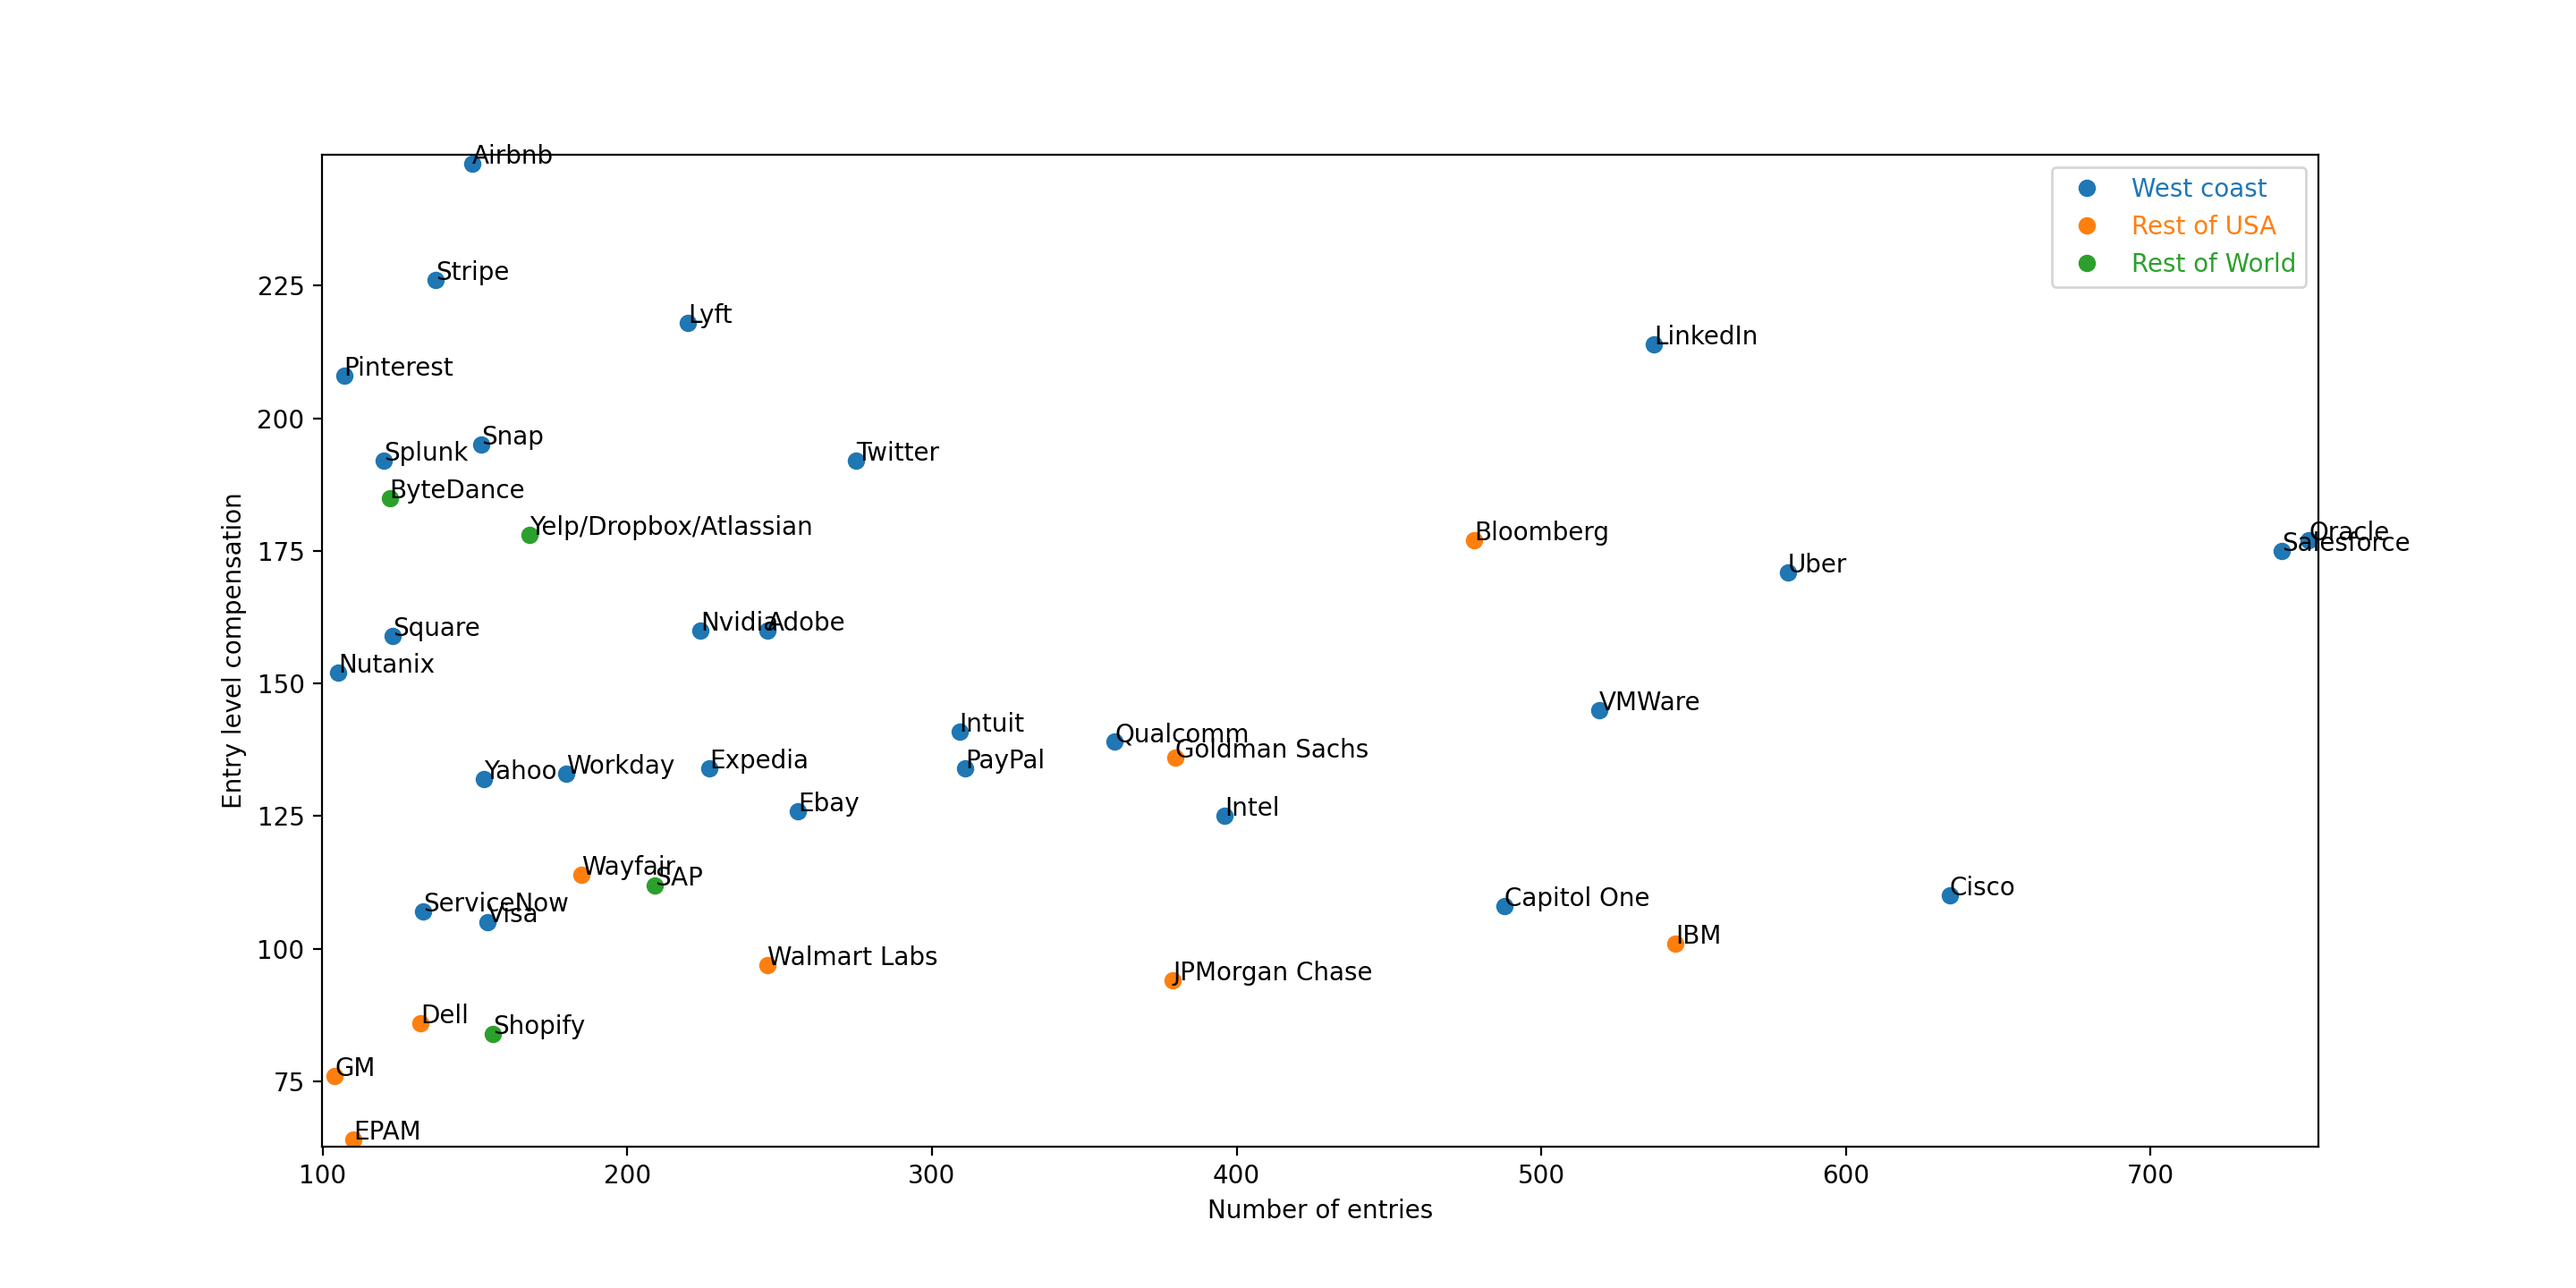
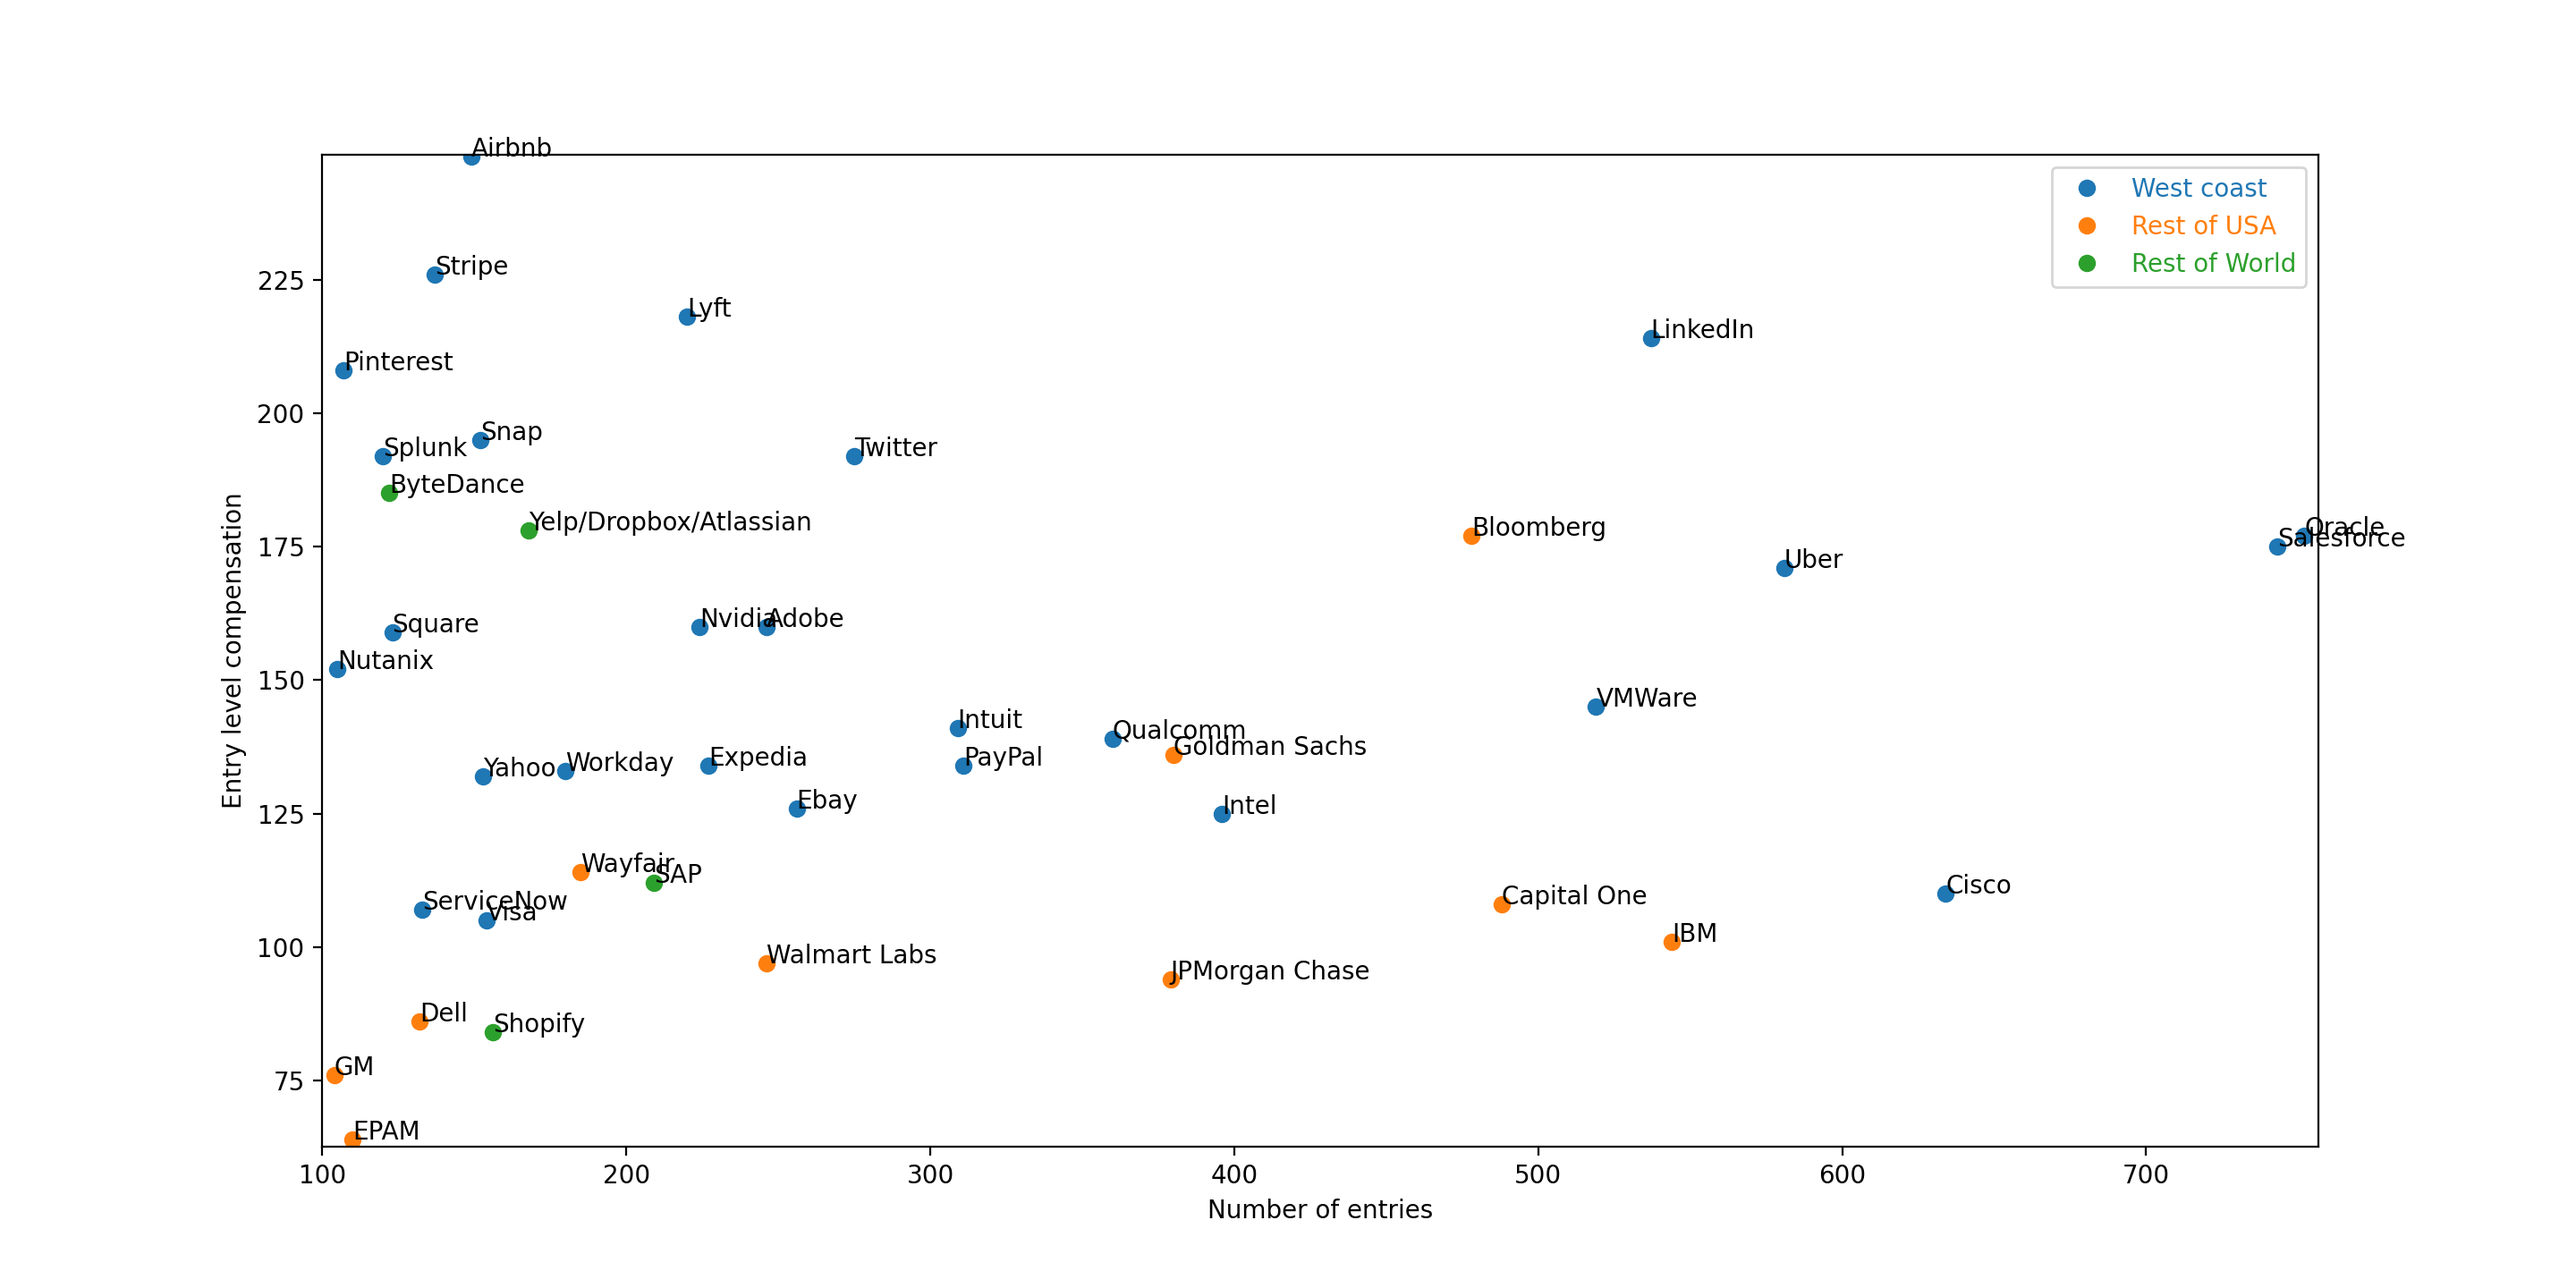
Capital One typo

diff --git a/tech-compensation/main.py b/tech-compensation/main.py
@@ -13,7 +13,7 @@ map = {
 'IBM': [544, 101],
 'LinkedIn': [537, 214],
 'VMWare': [519, 145],
-'Capitol One': [488, 108],
+'Capital One': [488, 108],
 'Bloomberg': [478, 177],
 'Intel': [396, 125],
 'Goldman Sachs': [380, 136],
